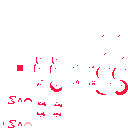
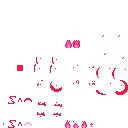
fire enemy thing

Changed region(s): [[0.5, 0.9375, 0.7188, 1.0], [0.5, 0.3125, 0.625, 0.375], [0.0, 0.9375, 0.0312, 0.9688]]

diff --git a/src/game/mr_fire.c b/src/game/mr_fire.c
@@ -6,13 +6,13 @@
 #include <stdio.h>
 
 // static const animation_t mr_fire_idle   = { .tx = 4, .ty = 10, .tw = 1, .th = 1, .framecount = 1, .frametime = 0.50 };
-static const animation_t mr_fire_attack = { .tx = 8, .ty = 10, .tw = 1, .th = 1, .framecount = 3, .frametime = 0.1 };
+static const animation_t mr_fire_attack = { .tx = 8, .ty = 0, .tw = 1, .th = 1, .framecount = 3, .frametime = 0.125 };
 
 static shooter_t mr_fire_shooter = {
-  .tx = 2, .ty = 4,
+  .tx = 11, .ty = 0,
   .tw = 1, .th = 1,
   .target = ENT_PLAYER,
-  .damage = 20
+  .damage = 5
 };
 
 static void mr_fire_invoke(game_t *gs, entity_t e, event_t ev);
@@ -30,7 +30,7 @@ void enemy_spawn_mr_fire(game_t *gs, vector spawn_pos)
     sprite_repeat(s, &mr_fire_attack);
   entity_add_component(gs, e, actor);
     actor_t *a = entity_get_component(gs, e, actor);
-    actor_repeat(a, ACT0, 0.0, 0, 0.4);
+    actor_repeat(a, ACT1, 1.0, 0, 6.0);
   entity_add_component(gs, e, rigidbody);
     rigidbody_t *rb = entity_get_component(gs, e, rigidbody);
     rb->radius = 0.8;
@@ -40,25 +40,35 @@ void enemy_spawn_mr_fire(game_t *gs, vector spawn_pos)
     h->max_hp = 1000;
   entity_add_component(gs, e, npcmove);
     npcmove_t *bm = entity_get_component(gs, e, npcmove);
-    bm->speed = 3.0;
+    bm->speed = 5.0;
     bm->behave = BH_CHASE;
   entity_bind(gs, e, mr_fire_invoke);
 }
 
 void mr_fire_invoke(game_t *gs, entity_t e, event_t ev)
 {
-  const transform_t *pt = entity_get_component(gs, gs->player, transform);
-  
   transform_t *t = entity_get_component(gs, e, transform);
   health_t *h = entity_get_component(gs, e, health);
+  actor_t *a = entity_get_component(gs, e, actor);
+  npcmove_t *bm = entity_get_component(gs, e, npcmove);
 
-  vector forward = fdotv(6.0, normalize(vsubv(pt->position, t->position)));
+  const transform_t *pt = entity_get_component(gs, gs->player, transform);
+  vector forward = fdotv(8.0, normalize(vsubv(pt->position, t->position)));
 
   switch (ev.type) {
   case EV_ACT:
     switch (ev.act.name) {
     case ACT0:
-      shoot_linear(gs, &mr_fire_shooter, 1.0, t->position, forward);
+      float theta = cos(a->action[ev.act.name].count * M_PI / 4.0) * 0.5;
+      shoot_linear(gs, &mr_fire_shooter, 1.5, t->position, mdotv(rotate_z(theta), forward));
+      break;
+    case ACT1:
+      bm->speed = 2.0;
+      actor_repeat(a, ACT0, 0.0, 32, 0.075);
+      actor_do(a, ACT2, 40 * 0.075);
+      break;
+    case ACT2:
+      bm->speed = 5.0;
       break;
     }
     break;

diff --git a/src/game/player.c b/src/game/player.c
@@ -61,7 +61,7 @@ void player_spawn(game_t *gs, vector position)
     sprite_repeat(s, &walk_forward);
   entity_add_component(gs, gs->player, actor);
     actor_t *a = entity_get_component(gs, gs->player, actor);
-    actor_repeat(a, ACT0, 0.0, 0, 0.15);
+    actor_repeat(a, ACT0, 2.0, 0, 0.15);
     actor_stop(a, ACT0);
   entity_add_component(gs, gs->player, rigidbody);
     rigidbody_t *rb = entity_get_component(gs, gs->player, rigidbody);

diff --git a/src/client/scene1.c b/src/client/scene1.c
@@ -60,6 +60,7 @@ static void reset_handle(gui_node_t node, gui_event_t event)
   case GUI_EV_CLICK:
     game_reset(gs);
     game_spawn_group(gs, "main");
+    game_spawn_group(gs, "fire_test");
     break;
   }
   
